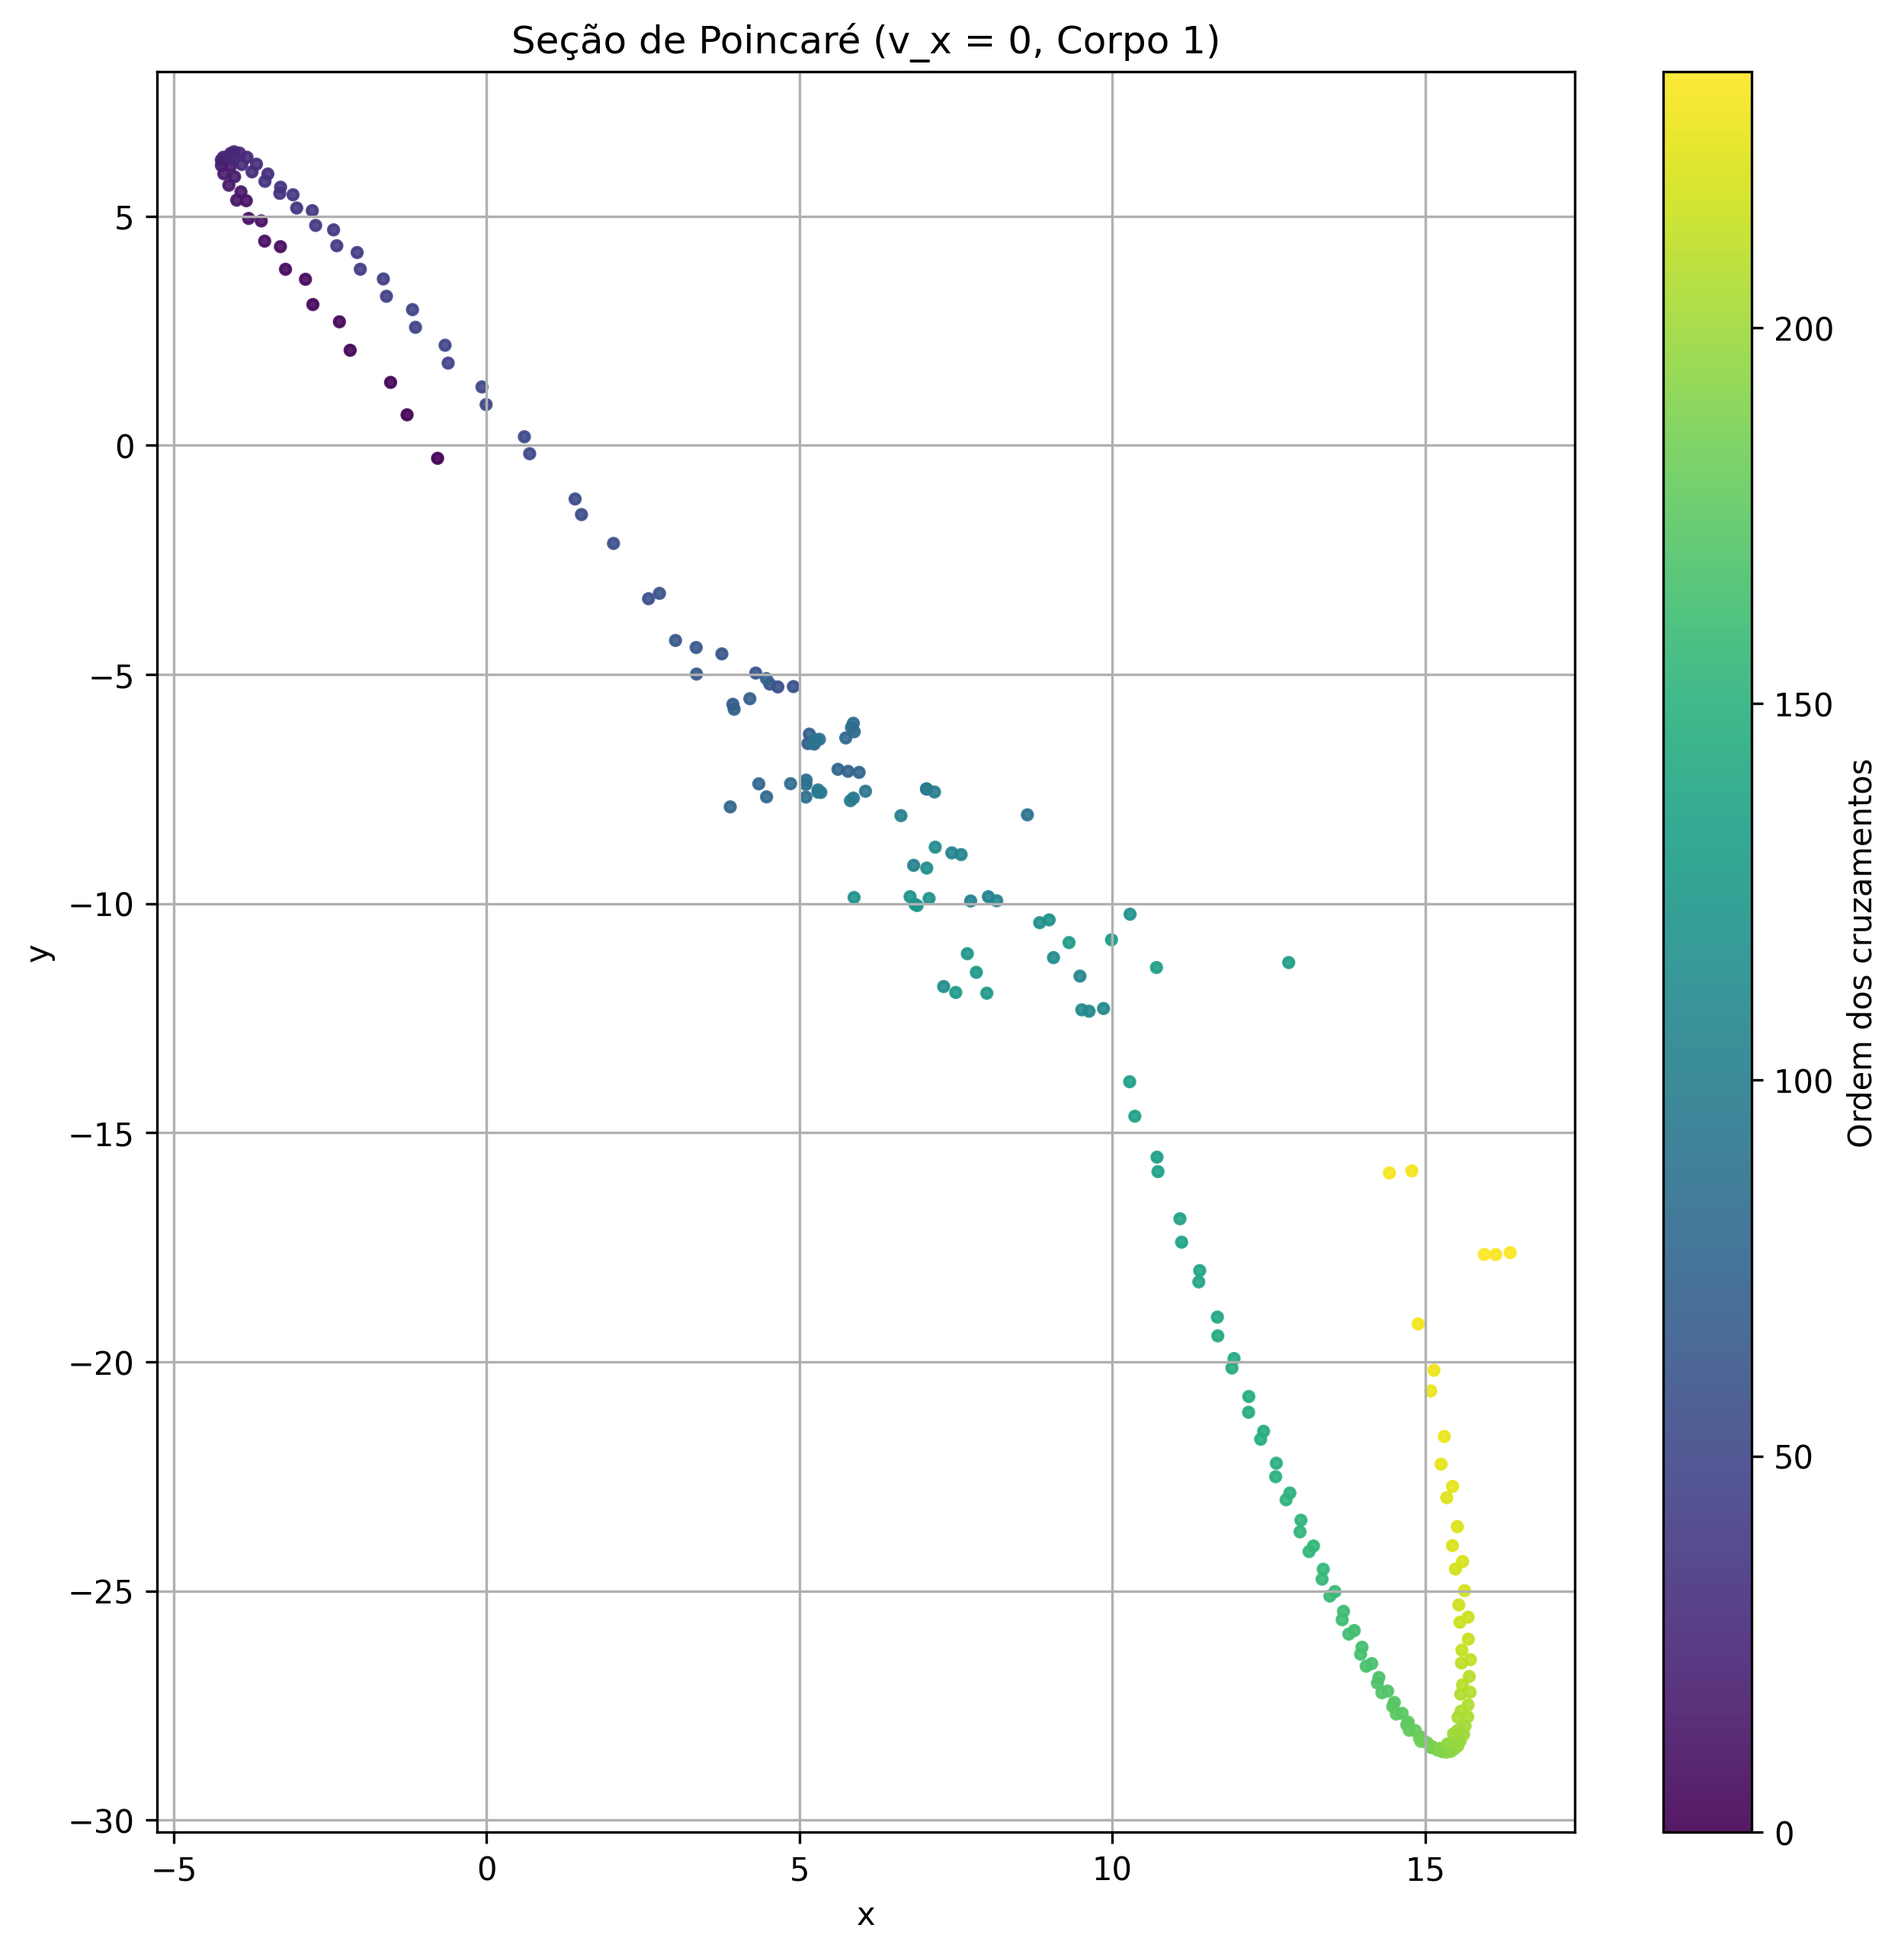
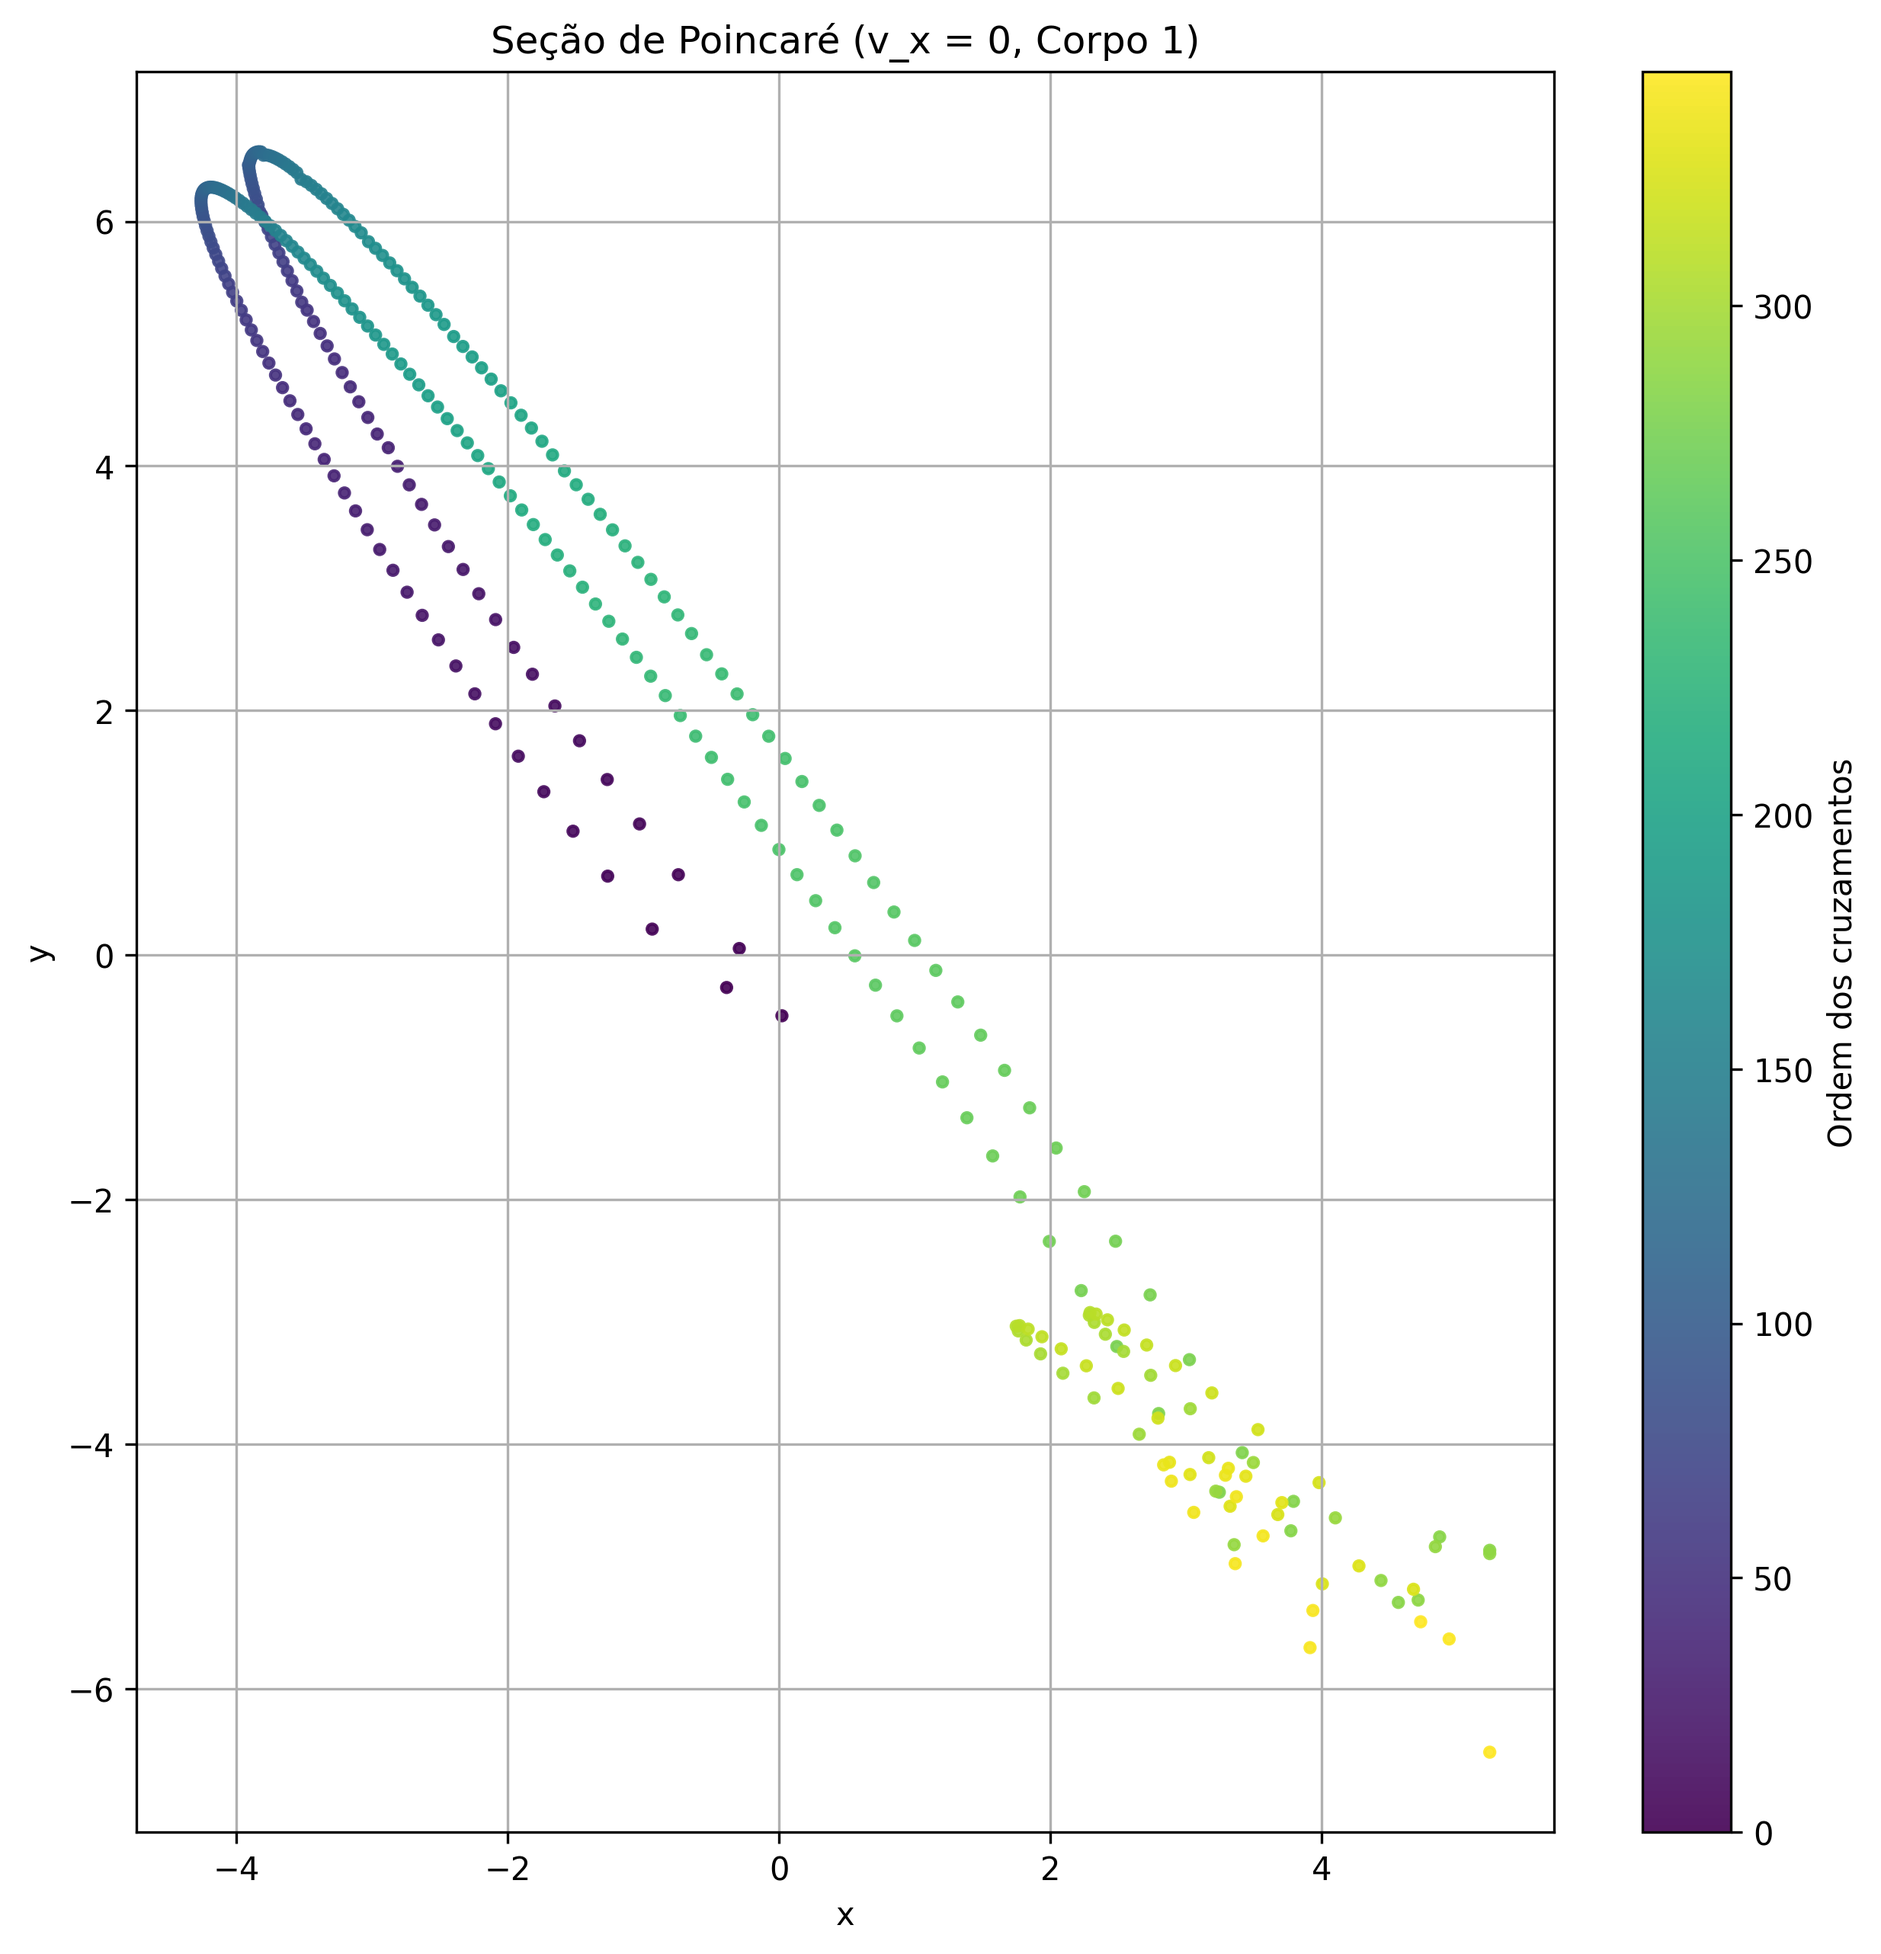
Secao de poincare

diff --git a/poincare_Vx.py b/poincare_Vx.py
@@ -29,8 +29,8 @@ y0 = [
     -1.3, -1.0, 1.3, -1.0, 0.0, 1.59,
     1.3, 1.3, -1.5, -1.7, 1.6, -1.3
 ]
-t_span = (0, 200)
-t_eval = np.linspace(*t_span, 3000)
+t_span = (0, 10)
+t_eval = np.linspace(*t_span, 17500)
 
 # Resolver o sistema
 sol = solve_ivp(three_body, t_span, y0, args=(m1, m2, m3), t_eval=t_eval, rtol=1e-9, atol=1e-9)
@@ -39,7 +39,7 @@ r1, v1 = sol.y[:2], sol.y[6:8]  # Posição e velocidade do Corpo 1
 
 # Detectar cruzamentos onde v_x = 0
 crossings_vx = []
-tolerance = 0.05  # Tolerância
+tolerance = 0.02  # Tolerância
 
 for i in range(1, len(t_eval)):
     if (v1[0, i-1] * v1[0, i]) < 0:  # Detectar cruzamento

diff --git a/poincare_Vy.py b/poincare_Vy.py
@@ -29,8 +29,8 @@ y0 = [
     -1.3, -1.0, 1.3, -1.0, 0.0, 1.59,
     1.3, 1.3, -1.5, -1.7, 1.6, -1.3
 ]
-t_span = (0, 200)
-t_eval = np.linspace(*t_span, 1000)
+t_span = (0, 10)
+t_eval = np.linspace(*t_span, 16000)
 
 # Resolver o sistema
 sol = solve_ivp(three_body, t_span, y0, args=(m1, m2, m3), t_eval=t_eval, rtol=1e-9, atol=1e-9)
